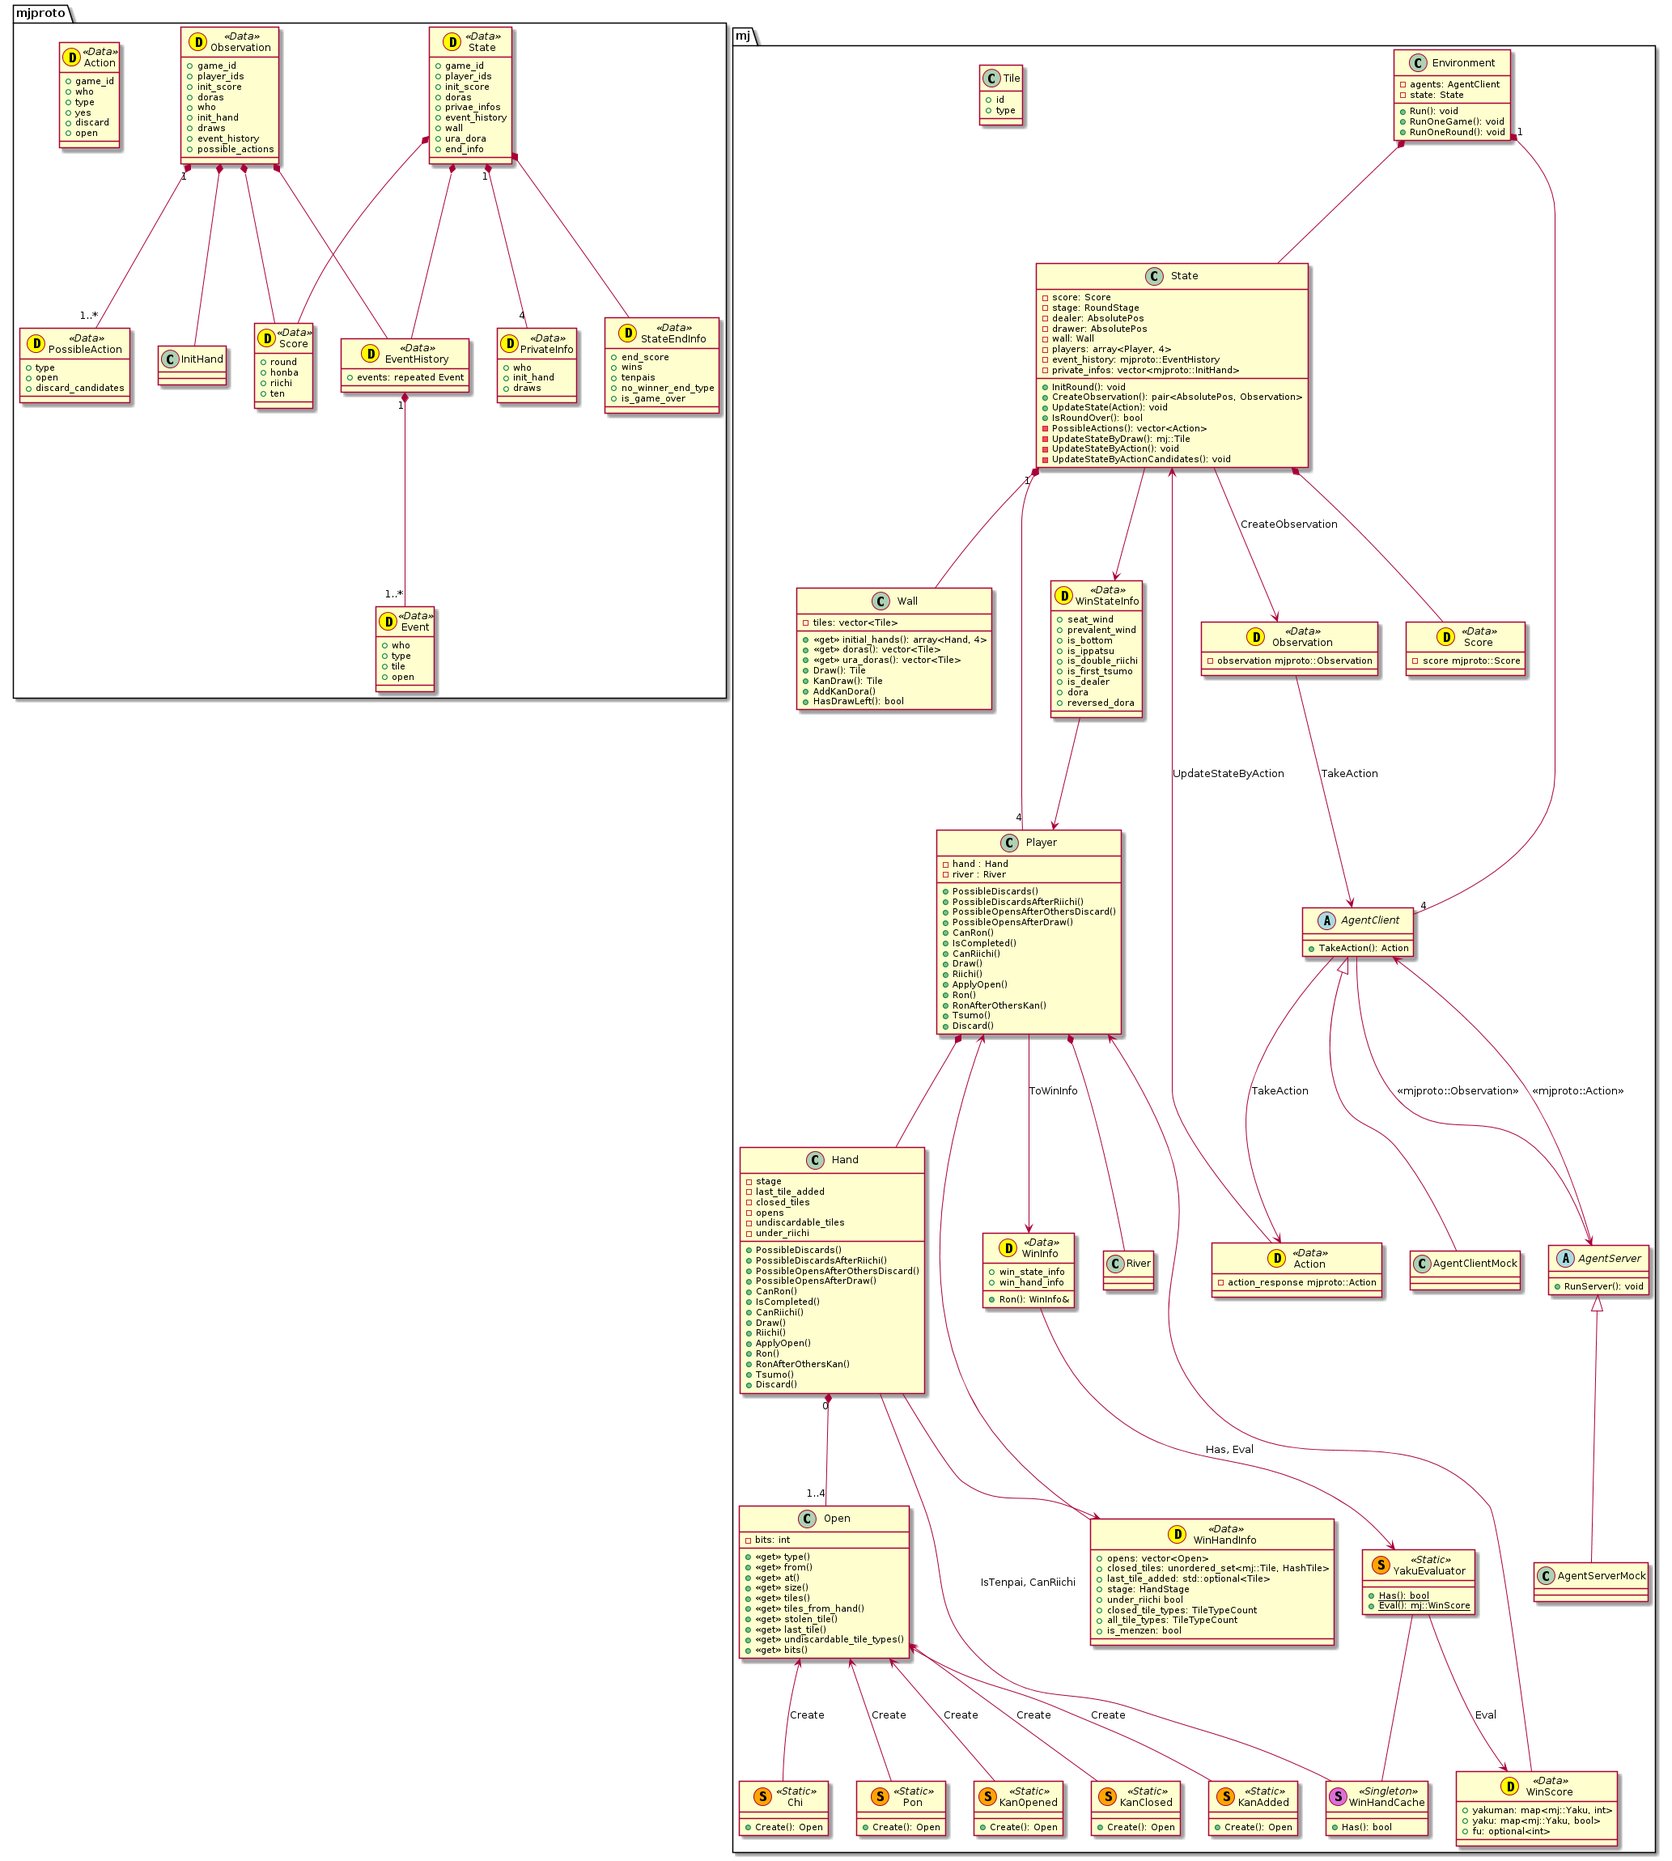
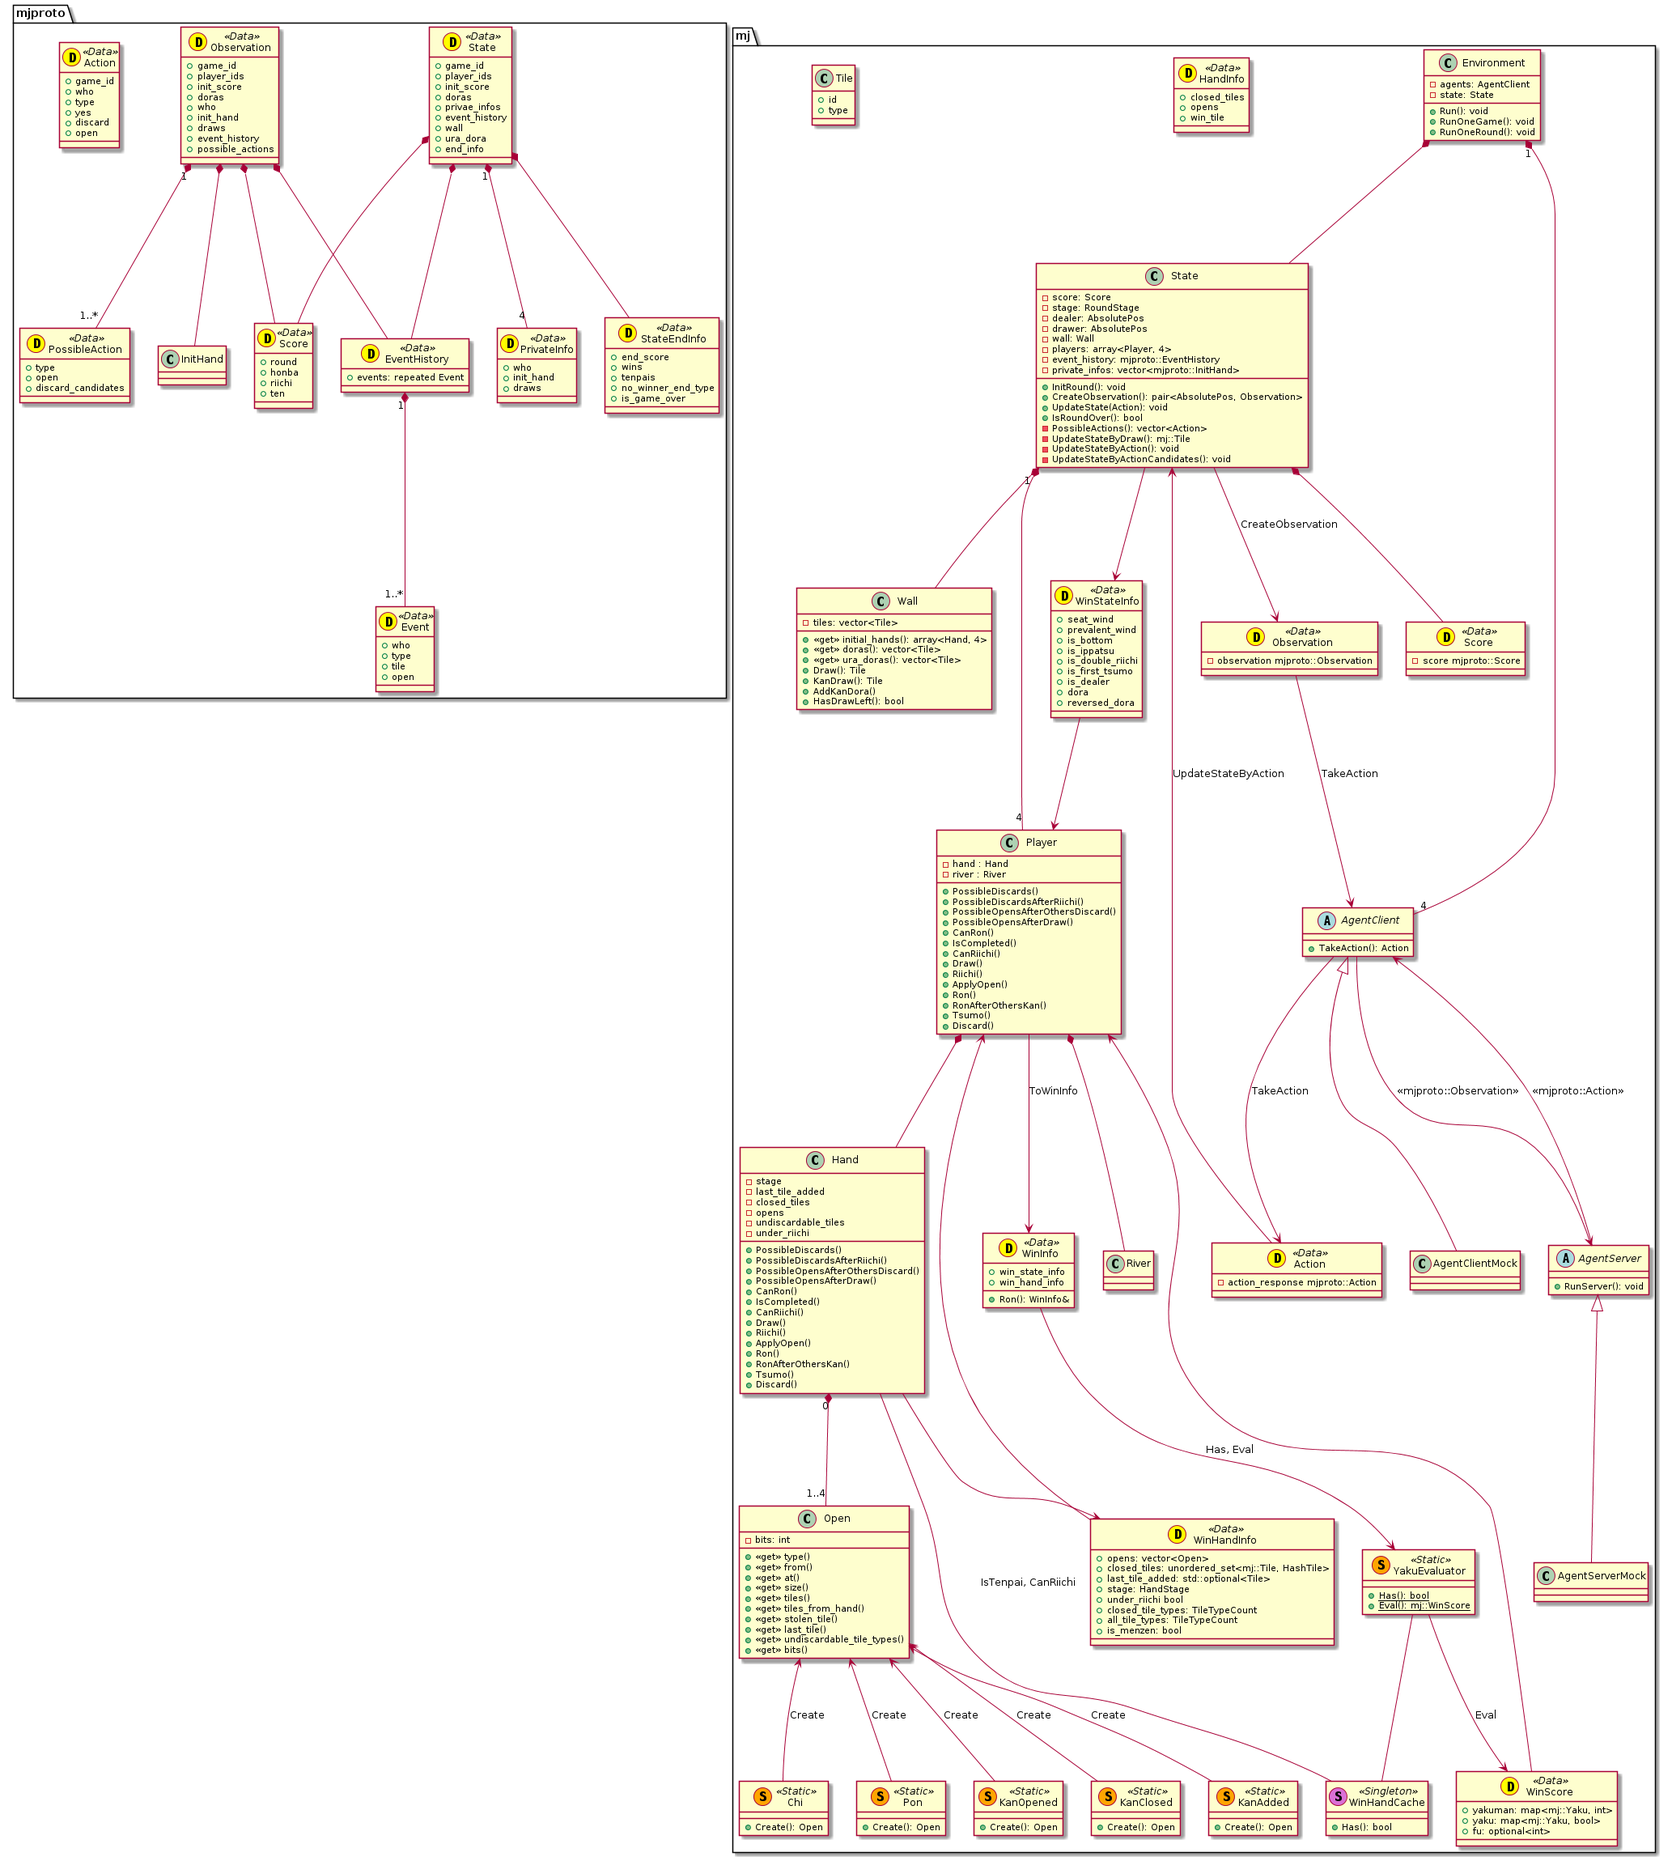
Remove unnecessary data members (#191)
* refactor: remove unnecessary data members

* refactor: space

diff --git a/mahjong/state.cpp b/mahjong/state.cpp
@@ -29,10 +29,6 @@ namespace mj
         return seed_gen();
     }
 
-    const Wall & State::wall() const {
-        return wall_;
-    }
-
     AbsolutePos State::UpdateStateByDraw() {
         mutable_player(drawer_).Draw(wall_.Draw());
         // TODO (sotetsuk): update action history
@@ -56,28 +52,19 @@ namespace mj
         return false;
     }
 
-    const Player &State::player(AbsolutePos pos) const {
-        return players_.at(ToUType(pos));
-    }
-
     Player& State::mutable_player(AbsolutePos pos) {
         return players_.at(ToUType(pos));
     }
 
-    const Hand & State::hand(AbsolutePos pos) const {
-        return player(pos).hand();
+    const Player &State::player(AbsolutePos pos) const {
+        return players_.at(ToUType(pos));
     }
 
-    const River &State::river(AbsolutePos pos) const {
-        return players_.at(ToUType(pos)).river();
-    }
-
-    Observation State::CreateObservation(AbsolutePos pos) {
-        auto observation = Observation(pos, curr_score_, mutable_player(pos));
+    Observation State::CreateObservation(AbsolutePos who) {
+        auto observation = Observation(who, curr_score_, mutable_player(who));
         switch (last_event_) {
             case EventType::kDraw:
-                assert(hand(pos).Stage() == HandStage::kAfterDraw);
-                observation.add_possible_action(PossibleAction::CreateDiscard(hand(pos)));
+                observation.add_possible_action(PossibleAction::CreateDiscard(player(who).PossibleDiscards()));
                 // TODO(sotetsuk): add kan_added, kan_closed and riichi
                 break;
             default:
@@ -89,9 +76,9 @@ namespace mj
     std::optional<std::vector<AbsolutePos>> State::RonCheck() {
         auto possible_winners = std::make_optional<std::vector<AbsolutePos>>();
         auto position = AbsolutePos((ToUType(latest_discarder_) + 1) % 4);
-        auto discarded_tile = player(latest_discarder_).latest_discard();
+        auto discarded_tile = mutable_player(latest_discarder_).latest_discard();
         while (position != latest_discarder_) {
-            if (player(position).CanRon(discarded_tile)) possible_winners->emplace_back(position);
+            if (mutable_player(position).CanRon(discarded_tile)) possible_winners->emplace_back(position);
             position = AbsolutePos((ToUType(position) + 1) % 4);
         }
         if (possible_winners.value().empty()) possible_winners = std::nullopt;
@@ -102,10 +89,10 @@ namespace mj
         assert(Any(last_event_, { EventType::kDiscardFromHand, EventType::kDiscardDrawnTile }));
         auto possible_steals = std::make_optional<std::vector<std::pair<AbsolutePos, std::vector<Open>>>>();
         auto position = AbsolutePos((ToUType(latest_discarder_) + 1) % 4);
-        auto discarded_tile = player(latest_discarder_).latest_discard();
+        auto discarded_tile = mutable_player(latest_discarder_).latest_discard();
         while (position != latest_discarder_) {
             auto stealer = AbsolutePos(position);
-            auto possible_opens = player(stealer).PossibleOpensAfterOthersDiscard(discarded_tile, ToRelativePos(position, latest_discarder_));
+            auto possible_opens = mutable_player(stealer).PossibleOpensAfterOthersDiscard(discarded_tile, ToRelativePos(position, latest_discarder_));
             possible_steals->emplace_back(std::make_pair(stealer, std::move(possible_opens)));
             position = AbsolutePos((ToUType(position) + 1) % 4);
         }
@@ -348,7 +335,7 @@ namespace mj
 
     void State::Tsumo(AbsolutePos winner) {
         mutable_player(winner).Tsumo();
-        auto win_score = EvalScore(winner);
+        auto [hand_info, win_score] = EvalWinHand(winner);
         // calc ten moves
         auto [ten, ten_moves] = win_score.TenMoves(winner, dealer_);
         for (auto &[who, ten_move]: ten_moves) {
@@ -362,8 +349,8 @@ namespace mj
         mjproto::Event event{};
         event.set_who(mjproto::AbsolutePos(winner));
         event.set_type(mjproto::EVENT_TYPE_TSUMO);
-        assert(player(winner).hand().LastTileAdded());
-        event.set_tile(player(winner).hand().LastTileAdded().value().Id());
+        assert(hand_info.win_tile);
+        event.set_tile(hand_info.win_tile.value().Id());
         event_history_.mutable_events()->Add(std::move(event));
 
         // set terminal
@@ -371,14 +358,14 @@ namespace mj
         win.set_who(mjproto::AbsolutePos(winner));
         win.set_from_who(mjproto::AbsolutePos(winner));
         // winner closed tiles, opens and win tile
-        for (auto t: player(winner).hand().ToVectorClosed(true)) {
+        for (auto t: hand_info.closed_tiles) {
             win.add_closed_tiles(t.Id());
         }
-        for (const auto &open: player(winner).hand().Opens()) {
+        for (const auto &open: hand_info.opens) {
             win.add_opens(open.GetBits());
         }
-        assert(player(winner).hand().LastTileAdded());
-        win.set_win_tile(player(winner).hand().LastTileAdded().value().Id());
+        assert(hand_info.win_tile);
+        win.set_win_tile(hand_info.win_tile.value().Id());
         // fu
         if (win_score.fu()) win.set_fu(win_score.fu().value());
         // yaku, fans
@@ -407,7 +394,7 @@ namespace mj
 
     void State::Ron(AbsolutePos winner, AbsolutePos loser, Tile tile) {
         mutable_player(winner).Ron(tile);
-        auto win_score = EvalScore(winner);
+        auto [hand_info, win_score] = EvalWinHand(winner);
         // calc ten moves
         auto [ten, ten_moves] = win_score.TenMoves(winner, dealer_, loser);
         for (auto &[who, ten_move]: ten_moves) {
@@ -429,10 +416,10 @@ namespace mj
         win.set_who(mjproto::AbsolutePos(winner));
         win.set_from_who(mjproto::AbsolutePos(loser));
         // winner closed tiles, opens and win tile
-        for (auto t: player(winner).hand().ToVectorClosed(true)) {
+        for (auto t: hand_info.closed_tiles) {
             win.add_closed_tiles(t.Id());
         }
-        for (const auto &open: player(winner).hand().Opens()) {
+        for (const auto &open: hand_info.opens) {
             win.add_opens(open.GetBits());
         }
         win.set_win_tile(tile.Id());
@@ -473,11 +460,11 @@ namespace mj
         std::vector<int> is_tenpai = {0, 0, 0, 0};
         for (int i = 0; i < 4; ++i) {
             auto who = AbsolutePos(i);
-            if (hand(who).IsTenpai()) {
+            if (auto tenpai_hand = player(who).EvalTenpai(); tenpai_hand) {
                 is_tenpai[i] = 1;
                 mjproto::TenpaiHand tenpai;
                 tenpai.set_who(mjproto::AbsolutePos(who));
-                for (auto tile: hand(who).ToVectorClosed(true)) {
+                for (auto tile: tenpai_hand.value().closed_tiles) {
                     tenpai.mutable_closed_tiles()->Add(tile.Id());
                 }
                 terminal_.mutable_no_winner()->mutable_tenpais()->Add(std::move(tenpai));
@@ -518,7 +505,7 @@ namespace mj
         return is_game_over;
     }
 
-    WinScore State::EvalScore(AbsolutePos who) const noexcept {
+    std::pair<HandInfo, WinScore> State::EvalWinHand(AbsolutePos who) const noexcept {
         // TODO: 場風, 自風, 海底, 一発, 両立直, 天和・地和, 親・子, ドラ, 裏ドラ の情報を追加する
         auto seat_wind = ToSeatWind(who, dealer_);
         auto prevalent_wind = Wind(curr_score_.round() % 4);
@@ -532,7 +519,7 @@ namespace mj
                 seat_wind == Wind::kEast,
                 wall_.dora_count(),
                 wall_.ura_dora_count());
-        return player(who).EvalScore(std::move(win_state_info));
+        return player(who).EvalWinHand(std::move(win_state_info));
     }
 
     Wind State::ToSeatWind(AbsolutePos who, AbsolutePos dealer) {

diff --git a/mahjong/state.h b/mahjong/state.h
@@ -10,8 +10,6 @@
 #include "observation.h"
 #include "action.h"
 #include "player.h"
-#include "hand.h"
-#include "river.h"
 #include "wall.h"
 
 namespace mj
@@ -30,15 +28,9 @@ namespace mj
         void UpdateStateByAction(const Action& action);
         Action& UpdateStateByActionCandidates(const std::vector<Action> &action_candidates);
         // operate wall
-        Observation CreateObservation(AbsolutePos pos);
+        Observation CreateObservation(AbsolutePos who);
         std::optional<std::vector<AbsolutePos>> RonCheck();  // 牌を捨てたプレイヤーの下家から順に
         std::optional<std::vector<std::pair<AbsolutePos, std::vector<Open>>>> StealCheck();
-
-        // accessors
-        [[nodiscard]] const Player& player(AbsolutePos pos) const;
-        [[nodiscard]] const Wall & wall() const;
-        [[nodiscard]] const Hand & hand(AbsolutePos pos) const;
-        [[nodiscard]] const River & river(AbsolutePos pos) const;
 
         std::string ToJson() const;
 
@@ -64,6 +56,7 @@ namespace mj
         mjproto::Terminal terminal_;
 
         Player& mutable_player(AbsolutePos pos);
+        const Player& player(AbsolutePos pos) const;
 
         Tile Draw(AbsolutePos who);
         void Discard(AbsolutePos who, Tile discard);
@@ -74,7 +67,7 @@ namespace mj
         void Tsumo(AbsolutePos winner);
         void Ron(AbsolutePos winner, AbsolutePos loser, Tile tile);
         void NoWinner();
-        [[nodiscard]] WinScore EvalScore(AbsolutePos who) const noexcept;
+        [[nodiscard]] std::pair<HandInfo, WinScore> EvalWinHand(AbsolutePos who) const noexcept;
 
         std::uint32_t GenerateRoundSeed();
     };

diff --git a/mahjong/player.cpp b/mahjong/player.cpp
@@ -15,15 +15,6 @@ namespace mj
         return position_;
     }
 
-    const Hand &Player::hand() const {
-        return hand_;
-    }
-
-
-    const River &Player::river() const {
-        return river_;
-    }
-
     // action validators
     std::vector<Tile> Player::PossibleDiscards() const {
         return hand_.PossibleDiscards();
@@ -43,7 +34,7 @@ namespace mj
 
     bool Player::CanRon(Tile tile) const {
         // TODO: ここでフリテンでないことを確認
-        return YakuEvaluator::CanWin(WinInfo(hand().win_info()).Ron(tile));
+        return YakuEvaluator::CanWin(WinInfo(hand_.win_info()).Ron(tile));
     }
 
     bool Player::IsCompleted() const {
@@ -88,8 +79,9 @@ namespace mj
     };
 
     // get winning info
-    WinScore Player::EvalScore(WinStateInfo win_state_info) const noexcept {
-        return YakuEvaluator::Eval(WinInfo(std::move(win_state_info), hand().win_info()));
+    std::pair<HandInfo, WinScore> Player::EvalWinHand(WinStateInfo win_state_info) const noexcept {
+        return {HandInfo{hand_.ToVectorClosed(true), hand_.Opens(), hand_.LastTileAdded()},
+                YakuEvaluator::Eval(WinInfo(std::move(win_state_info), hand_.win_info()))};
     }
 
     // river
@@ -103,5 +95,10 @@ namespace mj
 
     bool Player::IsTenpai() const {
         return hand_.IsTenpai();
+    }
+
+    std::optional<HandInfo> Player::EvalTenpai() const noexcept {
+        if (!IsTenpai()) return std::nullopt;
+        return HandInfo{hand_.ToVectorClosed(true), hand_.Opens(), hand_.LastTileAdded()};
     }
 }  // namespace mj

diff --git a/test/state_test.cpp b/test/state_test.cpp
@@ -4,23 +4,11 @@
 
 using namespace mj;
 
-TEST(state, InitRound) {
-    auto state = State(9999);
-
-    // Hands are different after initializations
-    state.InitRound();
-    auto hand_str1 = state.hand(AbsolutePos::kInitEast).ToString();
-    state.InitRound();
-    auto hand_str2 = state.hand(AbsolutePos::kInitEast).ToString();
-    EXPECT_NE(hand_str1, hand_str2);
-}
-
 TEST(state, UpdateStateByDraw) {
     auto state = State(9999);
     state.InitRound();
     auto drawer = state.UpdateStateByDraw();
     EXPECT_EQ(drawer, AbsolutePos::kInitEast);
-    EXPECT_EQ(state.hand(drawer).Size(), 14);
 
     // TODO(sotetsuk): add test for different round and turn
 }
@@ -33,10 +21,8 @@ TEST(state, UpdateStateByAction) {
     for (int i = 0; i < 50; ++i) {
         auto drawer = state.UpdateStateByDraw();
         EXPECT_EQ(drawer, AbsolutePos(i%4));
-        EXPECT_EQ(state.hand(drawer).Size(), 14);
         auto action = agent->TakeAction(state.CreateObservation(drawer));
         state.UpdateStateByAction(action);
-        EXPECT_EQ(state.hand(drawer).Size(), 13);
     }
 }
 

diff --git a/mahjong/player.h b/mahjong/player.h
@@ -7,14 +7,12 @@
 
 namespace mj
 {
-    class Player
+   class Player
     {
     public:
         Player() = default;
         Player(AbsolutePos position, River river, Hand initial_hand);
         [[nodiscard]] AbsolutePos position() const;
-        [[nodiscard]] const Hand& hand() const;
-        [[nodiscard]] const River& river() const;
 
         // action validators
         std::vector<Tile> PossibleDiscards() const;  // TODO(sotetsuk): Current implementation has the tiles with same type (e.g., 2m x 3). What is the Tenhou's implementation? Only first id? or any id?
@@ -37,7 +35,8 @@ namespace mj
         std::pair<Tile, bool> Discard(Tile tile);  // return whether tsumogiri or not
 
         // get winning info
-        [[nodiscard]] WinScore EvalScore(WinStateInfo win_state_info) const noexcept ;
+        [[nodiscard]] std::pair<HandInfo, WinScore> EvalWinHand(WinStateInfo win_state_info) const noexcept ;
+        [[nodiscard]] std::optional<HandInfo> EvalTenpai() const noexcept ;
 
         // river
         void Discard(Tile tile, bool tsumogiri);

diff --git a/test/observatoin_test.cpp b/test/observatoin_test.cpp
@@ -5,7 +5,7 @@
 using namespace mj;
 
 TEST(observation, possible_actions) {
-    // 第一ツモ後に可能なアクションはdiscardだけで、可能な捨て牌は手牌と一致
+    // 第一ツモ後に可能なアクションはdiscardだけ
     auto state = State(9999);
     state.InitRound();
     auto drawer = state.UpdateStateByDraw();
@@ -13,9 +13,6 @@ TEST(observation, possible_actions) {
     auto possible_actions = observation.possible_actions();
     EXPECT_EQ(possible_actions.size(), 1);
     EXPECT_EQ(possible_actions.front().type(), ActionType::kDiscard);
-    auto hand = state.hand(drawer).ToVector();
-    auto possible_discards = possible_actions.front().discard_candidates();
-    EXPECT_EQ(hand, possible_discards);
 
     // TODO(sotetsuk): add more cases
 }

diff --git a/mahjong/observation.cpp b/mahjong/observation.cpp
@@ -56,12 +56,11 @@ namespace mj
         return ret;
     }
 
-    PossibleAction PossibleAction::CreateDiscard(const Hand &hand) {
-        assert(hand.Stage() != HandStage::kAfterDiscards);
+    PossibleAction PossibleAction::CreateDiscard(const std::vector<Tile>& possible_discards) {
         auto possible_action = PossibleAction();
         possible_action.possible_action_.set_type(ToUType(ActionType::kDiscard));
         auto discard_candidates = possible_action.possible_action_.mutable_discard_candidates();
-        for (auto tile: hand.PossibleDiscards()) discard_candidates->Add(tile.Id());
+        for (auto tile: possible_discards) discard_candidates->Add(tile.Id());
         assert(discard_candidates->size() <= 14);
         return possible_action;
     }

diff --git a/mahjong/observation.h b/mahjong/observation.h
@@ -43,7 +43,7 @@ namespace mj
         Open open() const;
         std::vector<Tile> discard_candidates() const;
 
-        static PossibleAction CreateDiscard(const Hand& hand);
+        static PossibleAction CreateDiscard(const std::vector<Tile>& possible_discards);
     private:
         friend class Observation;
         mjproto::PossibleAction possible_action_{};

diff --git a/mahjong/hand.h b/mahjong/hand.h
@@ -110,6 +110,12 @@ namespace mj
              bool riichi = false, bool after_kan = false);
     };
 
+    struct HandInfo {
+        std::vector<Tile> closed_tiles;
+        std::vector<Open> opens;
+        std::optional<Tile> win_tile;
+    };
+
     class HandParams
     {
     public:
